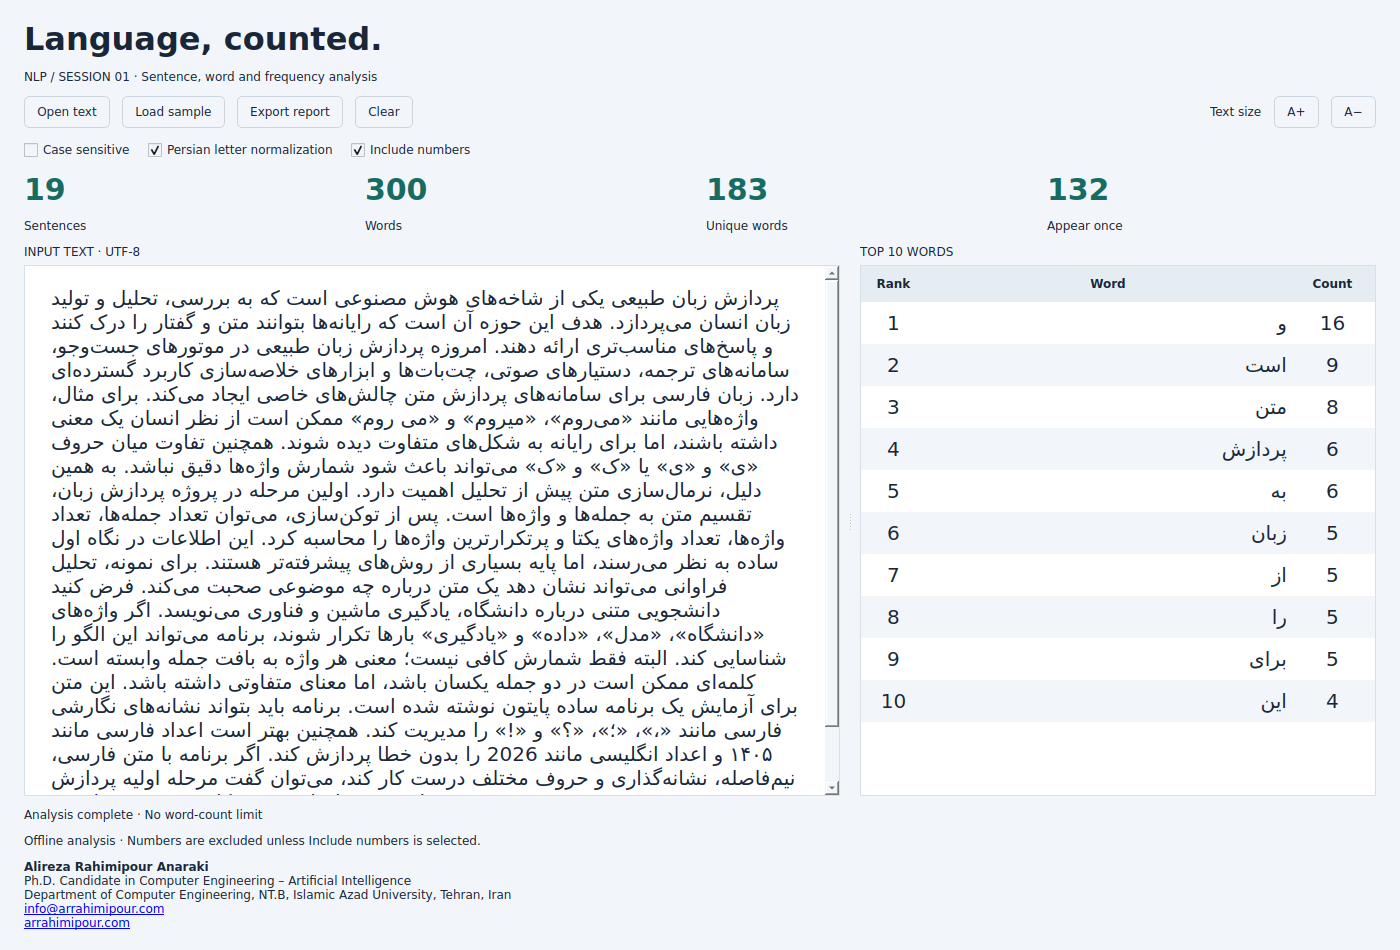
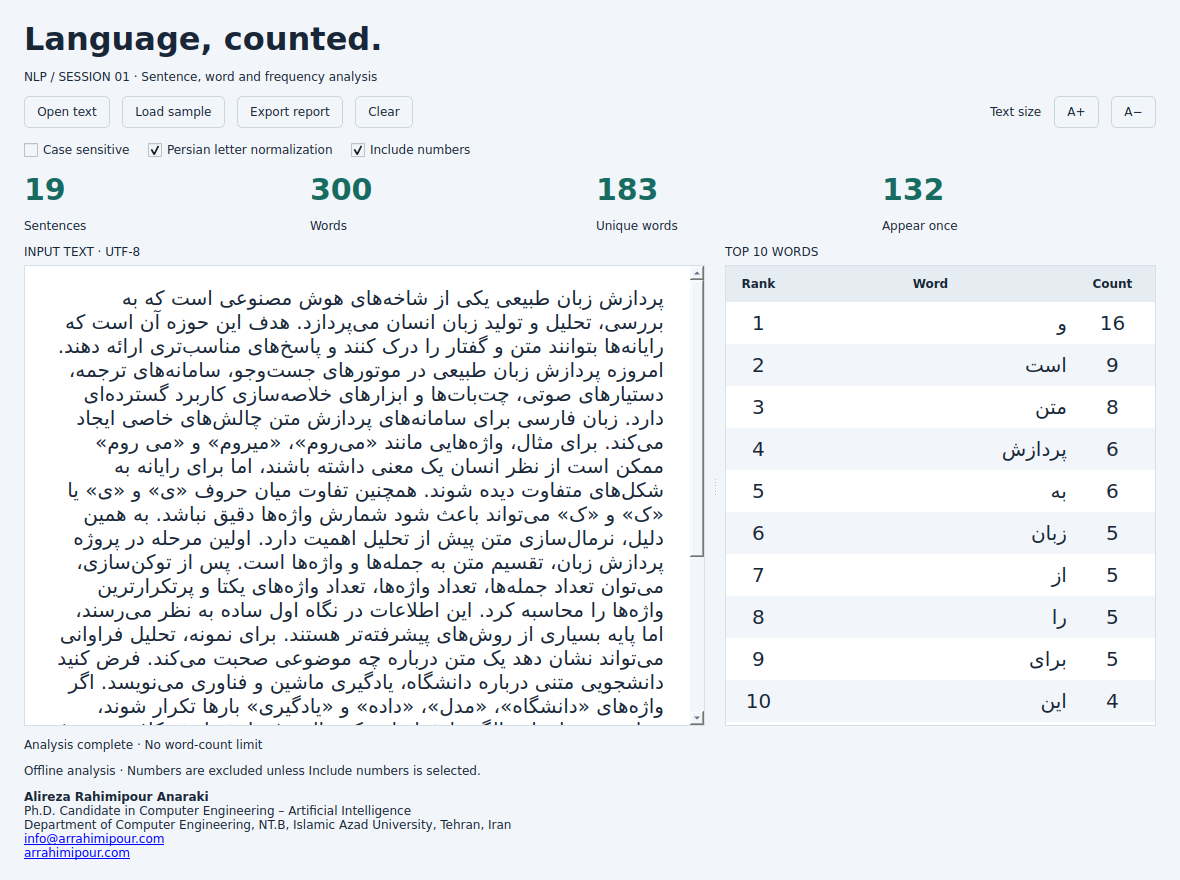
Fix physical right alignment in RTL paragraphs and verify rendered line edges

diff --git a/tests/test_gui.py b/tests/test_gui.py
@@ -76,6 +76,33 @@ class DesktopTests(unittest.TestCase):
             self.assertGreaterEqual(bounds.left() + rect.left(), 0)
             self.assertLessEqual(bounds.right() + rect.left(), self.window.editor.viewport().width())
 
+    def test_short_lines_reach_the_correct_physical_edge(self):
+        self.window.show()
+        for text, rtl in [('سلام دنیا.', True), ('مرحبا بالعالم.', True), ('Hello world.', False)]:
+            with self.subTest(text=text):
+                self.window.set_text(text)
+                self.app.processEvents()
+                line = self.window.editor.document().begin().layout().lineAt(0)
+                actual = line.naturalTextRect()
+                available = line.rect()
+                if rtl:
+                    self.assertAlmostEqual(actual.right(), available.right(), delta=1.0)
+                    self.assertGreater(actual.left(), available.left() + 50)
+                else:
+                    self.assertAlmostEqual(actual.left(), available.left(), delta=1.0)
+
+    def test_wrapped_paragraph_last_line_is_right_aligned_after_resize(self):
+        self.window.show()
+        text = 'پردازش زبان طبیعی برای تحلیل متن فارسی استفاده میشود. ' * 5
+        for width in (900, 1180):
+            self.window.resize(width, 800)
+            self.window.set_text(text)
+            self.app.processEvents()
+            layout = self.window.editor.document().begin().layout()
+            self.assertGreater(layout.lineCount(), 1)
+            last = layout.lineAt(layout.lineCount() - 1)
+            self.assertAlmostEqual(last.naturalTextRect().right(), last.rect().right(), delta=1.0)
+
     def test_zoom_bounds(self):
         self.window.resize_text(100)
         self.assertEqual(self.window.font_size, 24)

diff --git a/nlp_analyzer/gui.py b/nlp_analyzer/gui.py
@@ -18,7 +18,7 @@ class AnalyzerWindow(QWidget):
         self.input_path = None
         self.result = None
         self.font_size = 15
-        self.setWindowTitle('NLP Text Analyzer v1.3.1 | ARRahimipour')
+        self.setWindowTitle('NLP Text Analyzer v1.3.2 | ARRahimipour')
         self.resize(1180, 880)
         self.setMinimumSize(850, 720)
         families = {f.casefold(): f for f in QFontDatabase.families()}
@@ -111,6 +111,8 @@ class AnalyzerWindow(QWidget):
             rtl = (text_direction(text) if any(c.isalpha() for c in text) else dominant) == 'rtl'
             direction = Qt.LayoutDirection.RightToLeft if rtl else Qt.LayoutDirection.LeftToRight
             alignment = Qt.AlignmentFlag.AlignRight if rtl else Qt.AlignmentFlag.AlignLeft
+            # Use physical edges: Qt otherwise mirrors AlignRight in RTL blocks.
+            alignment |= Qt.AlignmentFlag.AlignAbsolute
             fmt = block.blockFormat()
             if fmt.layoutDirection() != direction or fmt.alignment() != alignment:
                 fmt.setLayoutDirection(direction); fmt.setAlignment(alignment)
@@ -143,7 +145,7 @@ class AnalyzerWindow(QWidget):
                 alignment = Qt.AlignmentFlag.AlignCenter
                 if column == 1:
                     alignment = Qt.AlignmentFlag.AlignRight if text_direction(str(value)) == 'rtl' else Qt.AlignmentFlag.AlignLeft
-                    alignment |= Qt.AlignmentFlag.AlignVCenter
+                    alignment |= Qt.AlignmentFlag.AlignVCenter | Qt.AlignmentFlag.AlignAbsolute
                 item.setTextAlignment(alignment); self.table.setItem(index, column, item)
         self.status.setText('Analysis complete · No word-count limit' +
                             (' | ' + self.result.warnings[0] if self.result.warnings else ''))

diff --git a/nlp_analyzer/__init__.py b/nlp_analyzer/__init__.py
@@ -2,4 +2,4 @@
 from .core import AnalysisOptions, AnalysisResult, analyze
 
 __all__ = ['AnalysisOptions', 'AnalysisResult', 'analyze']
-__version__ = '1.3.1'
+__version__ = '1.3.2'

diff --git a/README.md b/README.md
@@ -101,7 +101,7 @@ For command-line-only use, `python setup_env.py --cli-only` creates the environm
 
 ## Using the desktop
 
-Open the application with `python run_gui.py`. The window title should show **v1.3.1**.
+Open the application with `python run_gui.py`. The window title should show **v1.3.2**.
 
 1. Choose **Open text**, paste a passage, or select **Load sample**.
 2. Read the four totals above the editor and the frequency table on the right.
@@ -194,7 +194,7 @@ From the activated environment:
 python -m unittest discover -s tests -v
 ```
 
-There are 60 tests covering token counts, normalization, quoted punctuation, exports, invalid input, arbitrary input lengths, and the Qt editor. Six tests exercise real Qt widgets in offscreen mode; without Qt, those six are skipped. The suite sets offscreen mode for GUI tests so a visible desktop is not required.
+There are 62 tests covering token counts, normalization, quoted punctuation, exports, invalid input, arbitrary input lengths, and the Qt editor. Eight tests exercise real Qt widgets in offscreen mode; without Qt, those eight are skipped. The suite sets offscreen mode for GUI tests so a visible desktop is not required.
 
 See [verification details](docs/VERIFICATION.md) and the captured [test output](docs/test-results.txt). The current release was checked in an isolated Python 3.12 environment on Linux. Windows installation commands are documented but have not been run here.
 

diff --git a/docs/VERIFICATION.md b/docs/VERIFICATION.md
@@ -1,4 +1,4 @@
-# Verification record — v1.3.1
+# Verification record — v1.3.2
 
 Date: 2026-10-08. Python 3.12.14, Linux, PySide6 Essentials 6.8.3.
 
@@ -48,3 +48,11 @@ For v1.3.1, a fresh `.venv` was created with `setup_env.py` and the pinned requi
 - `.venv` is ignored by Git and excluded from the archive.
 
 Windows PowerShell/CMD commands have been reviewed but not executed on Windows. Existing commit timestamps are retained. New commits use the actual commit time and the requested author/committer identity.
+
+## Version 1.3.2: physical right-edge alignment
+
+The earlier tests checked RTL direction and clipping but missed physical alignment. A short Persian sentence reproduced the bug: its rendered text began at the left edge despite RTL block direction. Qt mirrors relative AlignRight in an RTL block. The fix combines AlignAbsolute with the desired edge.
+
+Two new geometry tests measure the rendered text rectangle against the available line rectangle: short Persian/Arabic lines reach the right edge, English reaches the left edge, and the last line of a wrapped Persian paragraph stays right-aligned at two window widths. All 62 tests passed inside .venv, including eight Qt tests. A rendered mixed-language preview was inspected: Persian/Arabic appeared on the right and English on the left. Windows remains untested directly.
+
+Reference: https://doc.qt.io/qt-6/qt.html#AlignmentFlag-enum

diff --git a/CHANGELOG.md b/CHANGELOG.md
@@ -1,5 +1,11 @@
 # Changelog
 
+## 1.3.2
+
+- Fixed RTL paragraphs being visually left-aligned by using absolute edge alignment.
+- Added geometry tests for short lines and wrapped paragraphs after resizing.
+- Verified all 62 tests and refreshed the desktop preview.
+
 ## 1.3.1
 
 - Added a project-local virtual environment setup helper.
